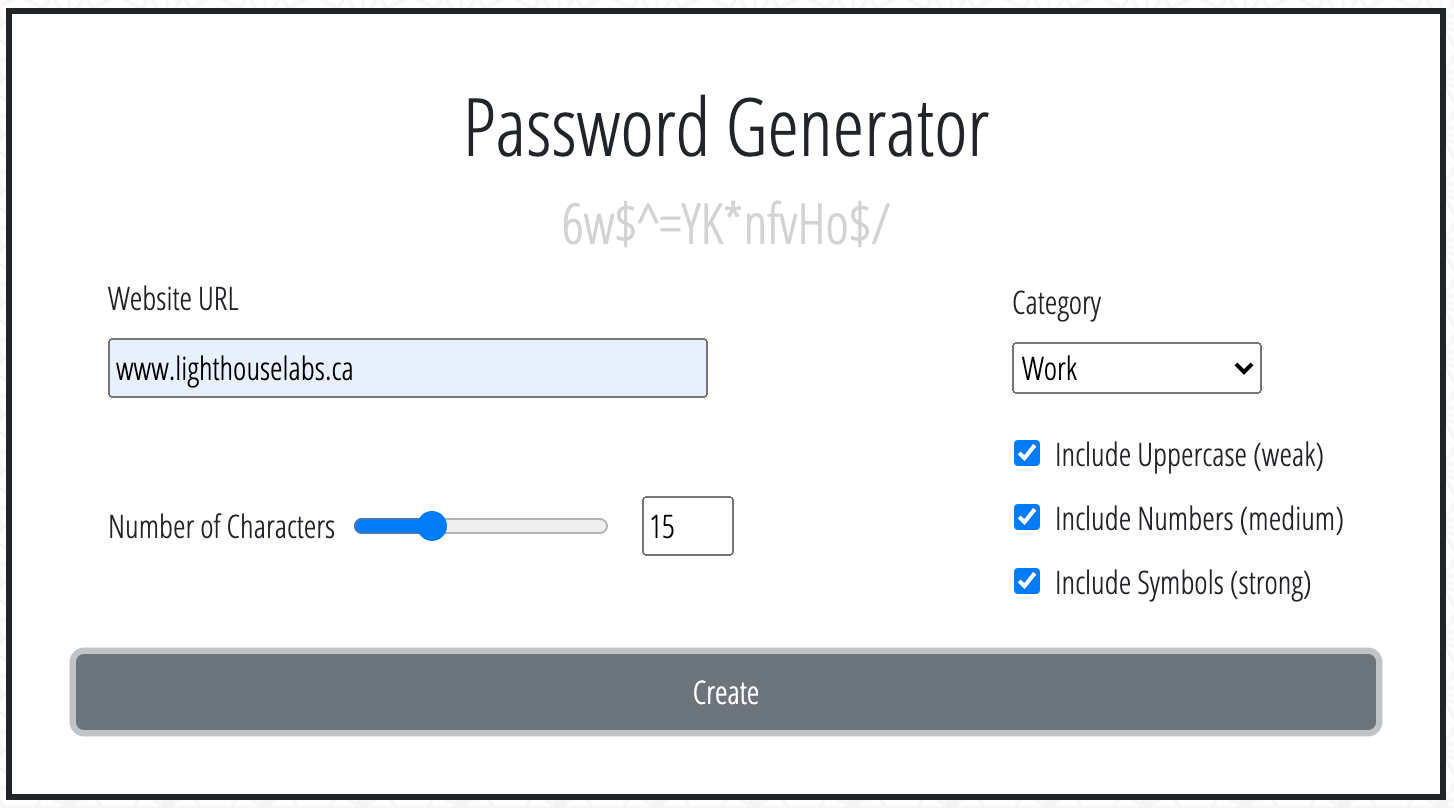
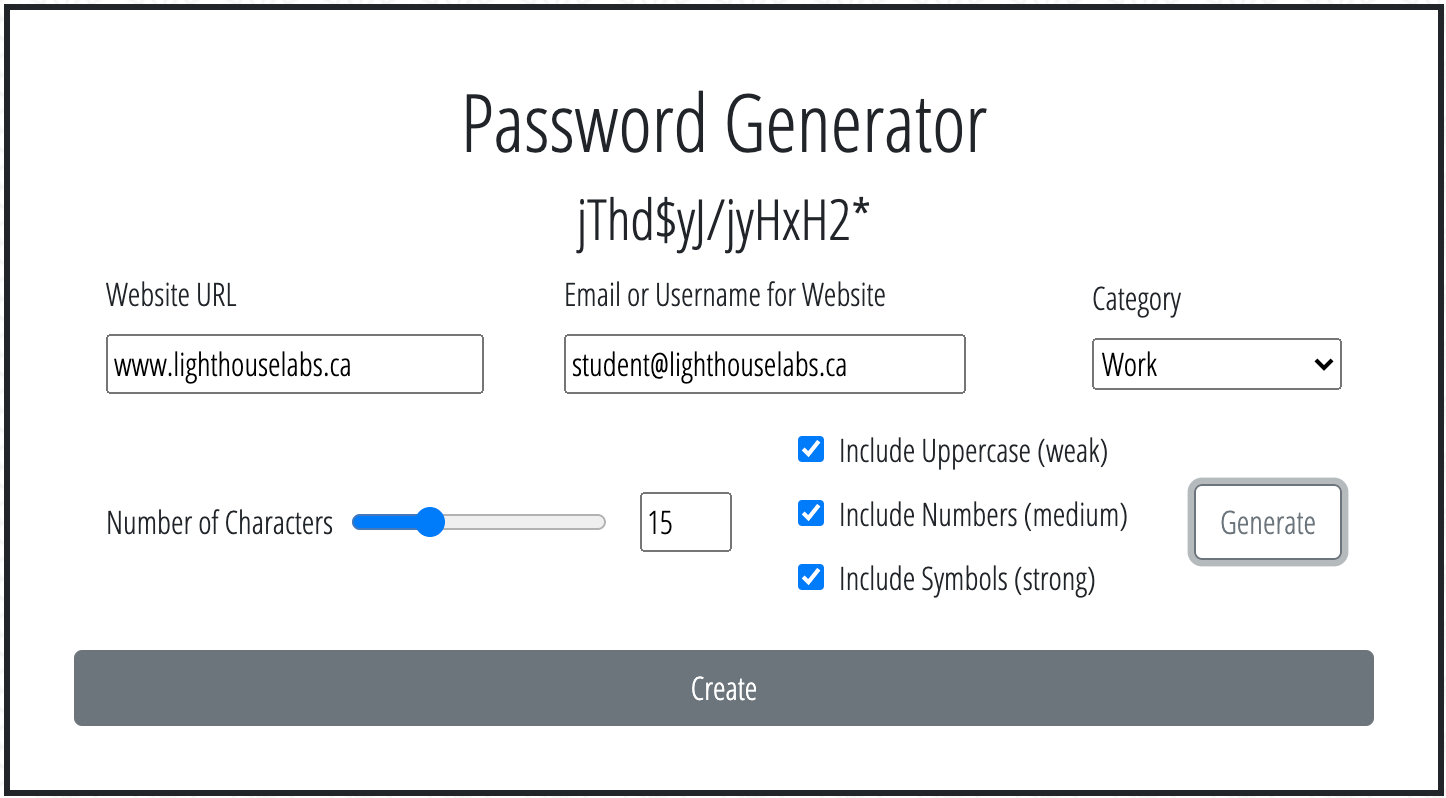
Add footers for each page and display another screenshot of the main passwords page

diff --git a/styles/main.scss b/styles/main.scss
@@ -14,7 +14,7 @@ body#login {
     display: flex;
     flex-direction: column;
     align-items: center;
-    padding: 8rem;
+    padding: 9rem;
   }
   form.login {
     display: flex;
@@ -32,6 +32,7 @@ body#index {
     flex-direction: column;
     align-items: center;
     height: 100%;
+    margin-bottom: 5rem;
 
     h1 {
       font-size: 2em;
@@ -57,7 +58,7 @@ body#index {
       flex-direction: row;
       justify-content: space-between;
       align-items: center;
-      padding: 1rem;
+      margin-bottom: 1rem;
       width: 100%;
     }
 
@@ -90,6 +91,7 @@ body#password-create {
     border-style: solid;
     padding: 2rem;
     margin-top: 5rem;
+    margin-bottom: 6.5rem;
     width: 50%;
   }
 
@@ -117,12 +119,12 @@ body#password-create {
     padding-right: 1rem;
   }
 
-  input#url {
-    width: 300px;
+  input#website_url {
+    width: 150%;
   }
 
   input#website_username {
-    width: 100%;
+    width: 125%;
   }
 
   .categories {
@@ -197,6 +199,7 @@ body#password-create {
 
 footer {
   p {
+    width: 100%;
     margin-top: 0;
     margin-bottom: 1rem;
     margin-left: 1rem;
